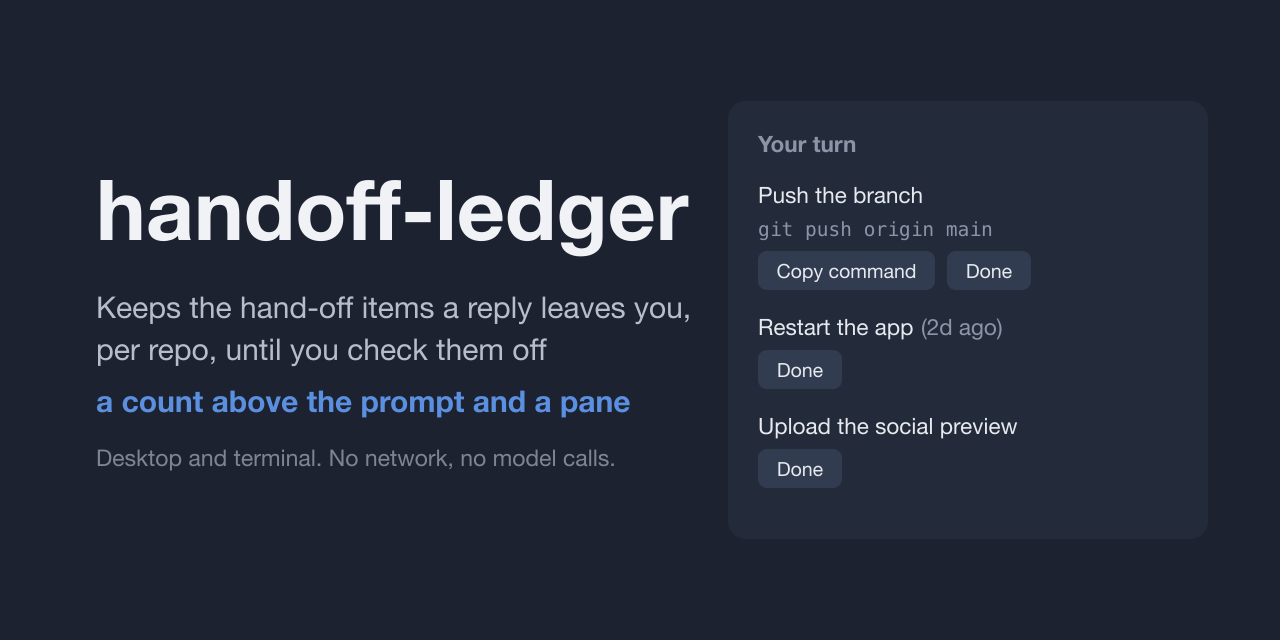
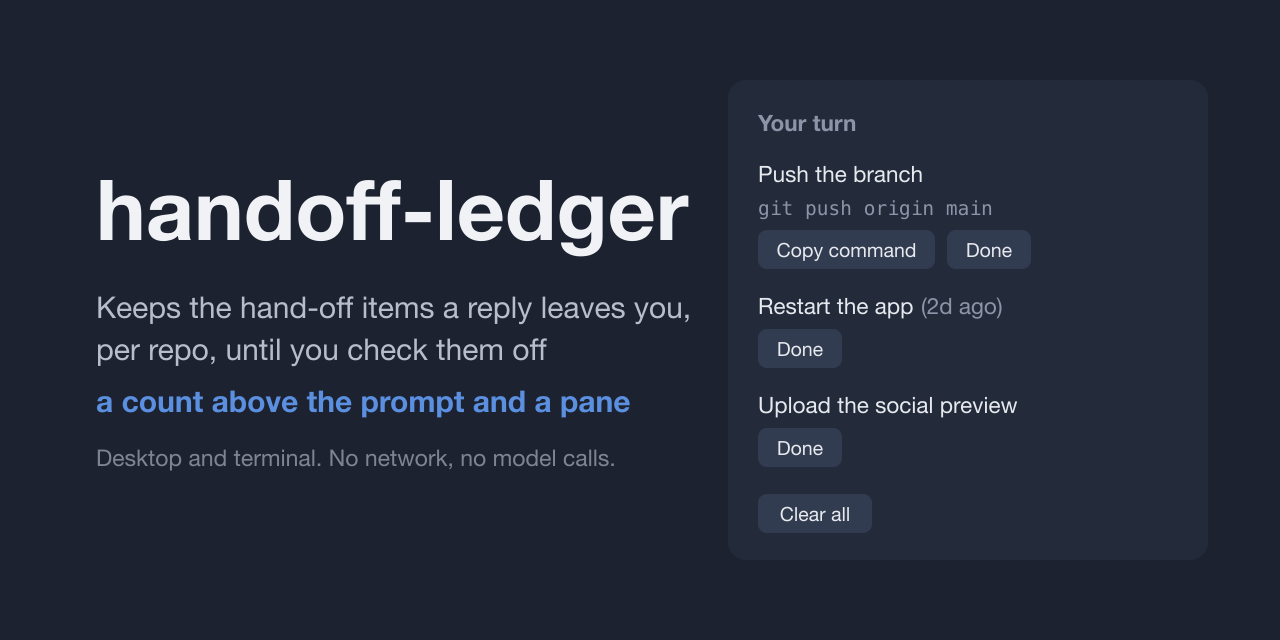
feat: add Clear all to the pane
Items left the ledger one Done at a time, so a list whose items were
all settled in the conversation still took a press per item. Clear all
empties this repo's ledger. The first press only arms it and offers
Keep, because an emptied list cannot be read back from the store; any
change to the ledger disarms it, so a press armed against one list
never fires on another.

The hero and the social card draw the pane, so both are regenerated.

diff --git a/plugin/tests/ledger.test.tsx b/plugin/tests/ledger.test.tsx
@@ -131,6 +131,49 @@ test('a new session reads this repo’s ledger, with each item’s age, and Done
   await band.unmount()
 })
 
+test('Clear all asks once, Keep backs out, and the second press empties this repo’s ledger only', async ($, on) => {
+  const stored = {
+    'open:/repo': [
+      { id: 'a', at: 0, text: 'one' },
+      { id: 'b', at: 0, text: 'two' },
+    ],
+    'open:/elsewhere': [{ id: 'c', at: 0, text: 'not ours' }],
+  }
+  let cwd = '/repo'
+  engine(on, stored, 0, () => cwd)
+
+  const pane = await $.ui.mount({ ...PANE, surface: 'desktop' })
+  expect((await pane.find({ key: 'clear' }))?.props.label).toBe('Clear all')
+  expect(await pane.find({ key: 'keep' })).toBeUndefined()
+
+  await pane.press({ key: 'clear' })
+  expect((await pane.find({ key: 'clear' }))?.props.label).toBe('Clear all 2?')
+  expect((await pane.findAll({ type: 'Text' })).map(t => t.text)).toEqual(['one', 'two'])
+
+  await pane.press({ key: 'keep' })
+  expect((await pane.find({ key: 'clear' }))?.props.label).toBe('Clear all')
+
+  await pane.press({ key: 'clear' })
+  await pane.press({ key: 'done-a' })
+  expect((await pane.find({ key: 'clear' }))?.props.label).toBe('Clear all')
+  expect((await pane.findAll({ type: 'Text' })).map(t => t.text)).toEqual(['two'])
+
+  await pane.press({ key: 'clear' })
+  await pane.press({ key: 'clear' })
+  expect((await pane.findAll({ type: 'Text' })).map(t => t.text)).toEqual(['Nothing owed.'])
+  expect(await pane.find({ key: 'clear' })).toBeUndefined()
+  await pane.unmount()
+
+  const band = await $.ui.mount({ ...BAND, surface: 'desktop' })
+  expect(await band.find({ key: 'handoffs' })).toBeUndefined()
+  await band.unmount()
+
+  cwd = '/elsewhere'
+  const other = await $.ui.mount({ ...BAND, surface: 'desktop' })
+  expect((await other.find({ key: 'handoffs' }))?.props.label).toBe('✋ 等你動手 1')
+  await other.unmount()
+})
+
 test('in a bulleted block an unmarked line is the why of the item above it', async ($, on) => {
   engine(on)
   await $.turn.complete(

diff --git a/plugin/hooks/register.tsx b/plugin/hooks/register.tsx
@@ -12,6 +12,7 @@ const MARKER = /^(?:[-*]|\d+\.)\s+/
 // Only redraws the readers: the ledger is read from the store at each draw, because
 // a desktop session starts in a spare folder and gets its real cwd afterwards.
 const tick = atom({ plugin: 'handoff-ledger', key: 'tick' } as const, 0, { shape: 'tick-1' })
+const armed = atom({ plugin: 'handoff-ledger', key: 'armed' } as const, false, { shape: 'armed-1' })
 
 const parse = (answer: string, heading: string): Draft[] => {
   const lines = answer.split('\n')
@@ -63,6 +64,8 @@ const load = async ($: EngineInterface): Promise<Handoff[]> => {
 const change = async ($: EngineInterface, fn: (list: Handoff[]) => Handoff[]) => {
   const list = fn(await load($))
   await $.store.set(await key($), list)
+  // A Clear all armed against one list must not fire on another.
+  await update($, armed, () => false)
   await update($, tick, n => n + 1)
 }
 
@@ -124,6 +127,7 @@ export const register: Register = (on, options) => {
     await read($, tick)
     const list = await load($)
     const now = await $.clock.now()
+    const isArmed = await read($, armed)
 
     return (
       <Box flexDirection="column" gap={1}>
@@ -160,6 +164,26 @@ export const register: Register = (on, options) => {
             </Box>
           )
         })}
+        {list.length > 0 && (
+          <Box flexDirection="row" gap={1}>
+            <Button
+              key="clear"
+              label={isArmed ? `Clear all ${list.length}?` : 'Clear all'}
+              onPress={() => {
+                void (isArmed ? change($, () => []) : update($, armed, () => true))
+              }}
+            />
+            {isArmed && (
+              <Button
+                key="keep"
+                label="Keep"
+                onPress={() => {
+                  void update($, armed, () => false)
+                }}
+              />
+            )}
+          </Box>
+        )}
       </Box>
     )
   })

diff --git a/plugin/types/index.d.ts b/plugin/types/index.d.ts
@@ -2,6 +2,6 @@ export type Handoff = { id: string; at: number; text: string; command?: string; 
 
 declare module 'claude-code' {
   interface PluginState {
-    'handoff-ledger': { tick: Shaped<number> }
+    'handoff-ledger': { tick: Shaped<number>; armed: Shaped<boolean> }
   }
 }

diff --git a/README.md b/README.md
@@ -4,7 +4,7 @@
 
 [![CI: check](https://github.com/zexion7873/handoff-ledger/actions/workflows/check.yml/badge.svg)](https://github.com/zexion7873/handoff-ledger/actions/workflows/check.yml)
 
-<img src="docs/hero.svg" width="760" title="Drawn by hand from sample items, not a screenshot." alt="A drawing of the mod, not a screenshot. On the left, a reply ends with the line Your turn and three bullets: push the branch, restart the app, upload the social preview. Under it, above the prompt box, a button reads Your turn 3. On the right, a pane titled Your turn lists the same three items: the first shows the command git push origin main with a Copy command button and a Done button, the second is marked 2d ago, and each has a Done button.">
+<img src="docs/hero.svg" width="760" title="Drawn by hand from sample items, not a screenshot." alt="A drawing of the mod, not a screenshot. On the left, a reply ends with the line Your turn and three bullets: push the branch, restart the app, upload the social preview. Under it, above the prompt box, a button reads Your turn 3. On the right, a pane titled Your turn lists the same three items: the first shows the command git push origin main with a Copy command button and a Done button, the second is marked 2d ago, each has a Done button, and a Clear all button sits under the list.">
 
 **Keeps the things a Claude Code reply left for you to do, per repo, until you
 check them off: a count above the prompt and a pane.**
@@ -27,7 +27,8 @@ until you check them off:
 
 - a button above the prompt, `✋ <heading> 3`, drawn only while something is owed
 - a pane (the button, or `/handoffs`) listing each item with its age, its
-  command with a **Copy command** button, and a **Done** button
+  command with a **Copy command** button, and a **Done** button; **Clear all**
+  empties the repo's ledger after a second press
 
 It draws in the desktop app's Code tab and in the terminal. It makes no model
 calls and no network requests.
@@ -86,7 +87,7 @@ plugin.
 | --- | --- | --- |
 | `turn.complete` | the finished reply's text | appends its hand-off items to the mod's store |
 | `session.start` | this repo's stored items | registers `/handoffs` |
-| `ui.render` (`AbovePrompt`, `Pane`) | the open items | draws the button and the pane; **Done** deletes an item |
+| `ui.render` (`AbovePrompt`, `Pane`) | the open items | draws the button and the pane; **Done** deletes an item, **Clear all** deletes this repo's |
 
 Items live in Claude Code's per-plugin store on your machine, keyed by the
 session's working directory, so each repo has its own ledger. The reply the

diff --git a/SECURITY.md b/SECURITY.md
@@ -28,7 +28,7 @@ module run inside Claude Code's own engine.
 - It writes the items under that heading (their text, any command, any reason,
   and the time) to Claude Code's per-plugin store, a file on your disk in plain
   text, under a key that carries the session's working directory. They stay
-  there until you press **Done**, so a hand-off that contains something you
+  there until you press **Done** or **Clear all**, so a hand-off that contains something you
   would not want on disk is on disk.
 - It draws a button above the prompt and a pane listing those items.
 - It puts an item's command on the clipboard when you press **Copy command**.
